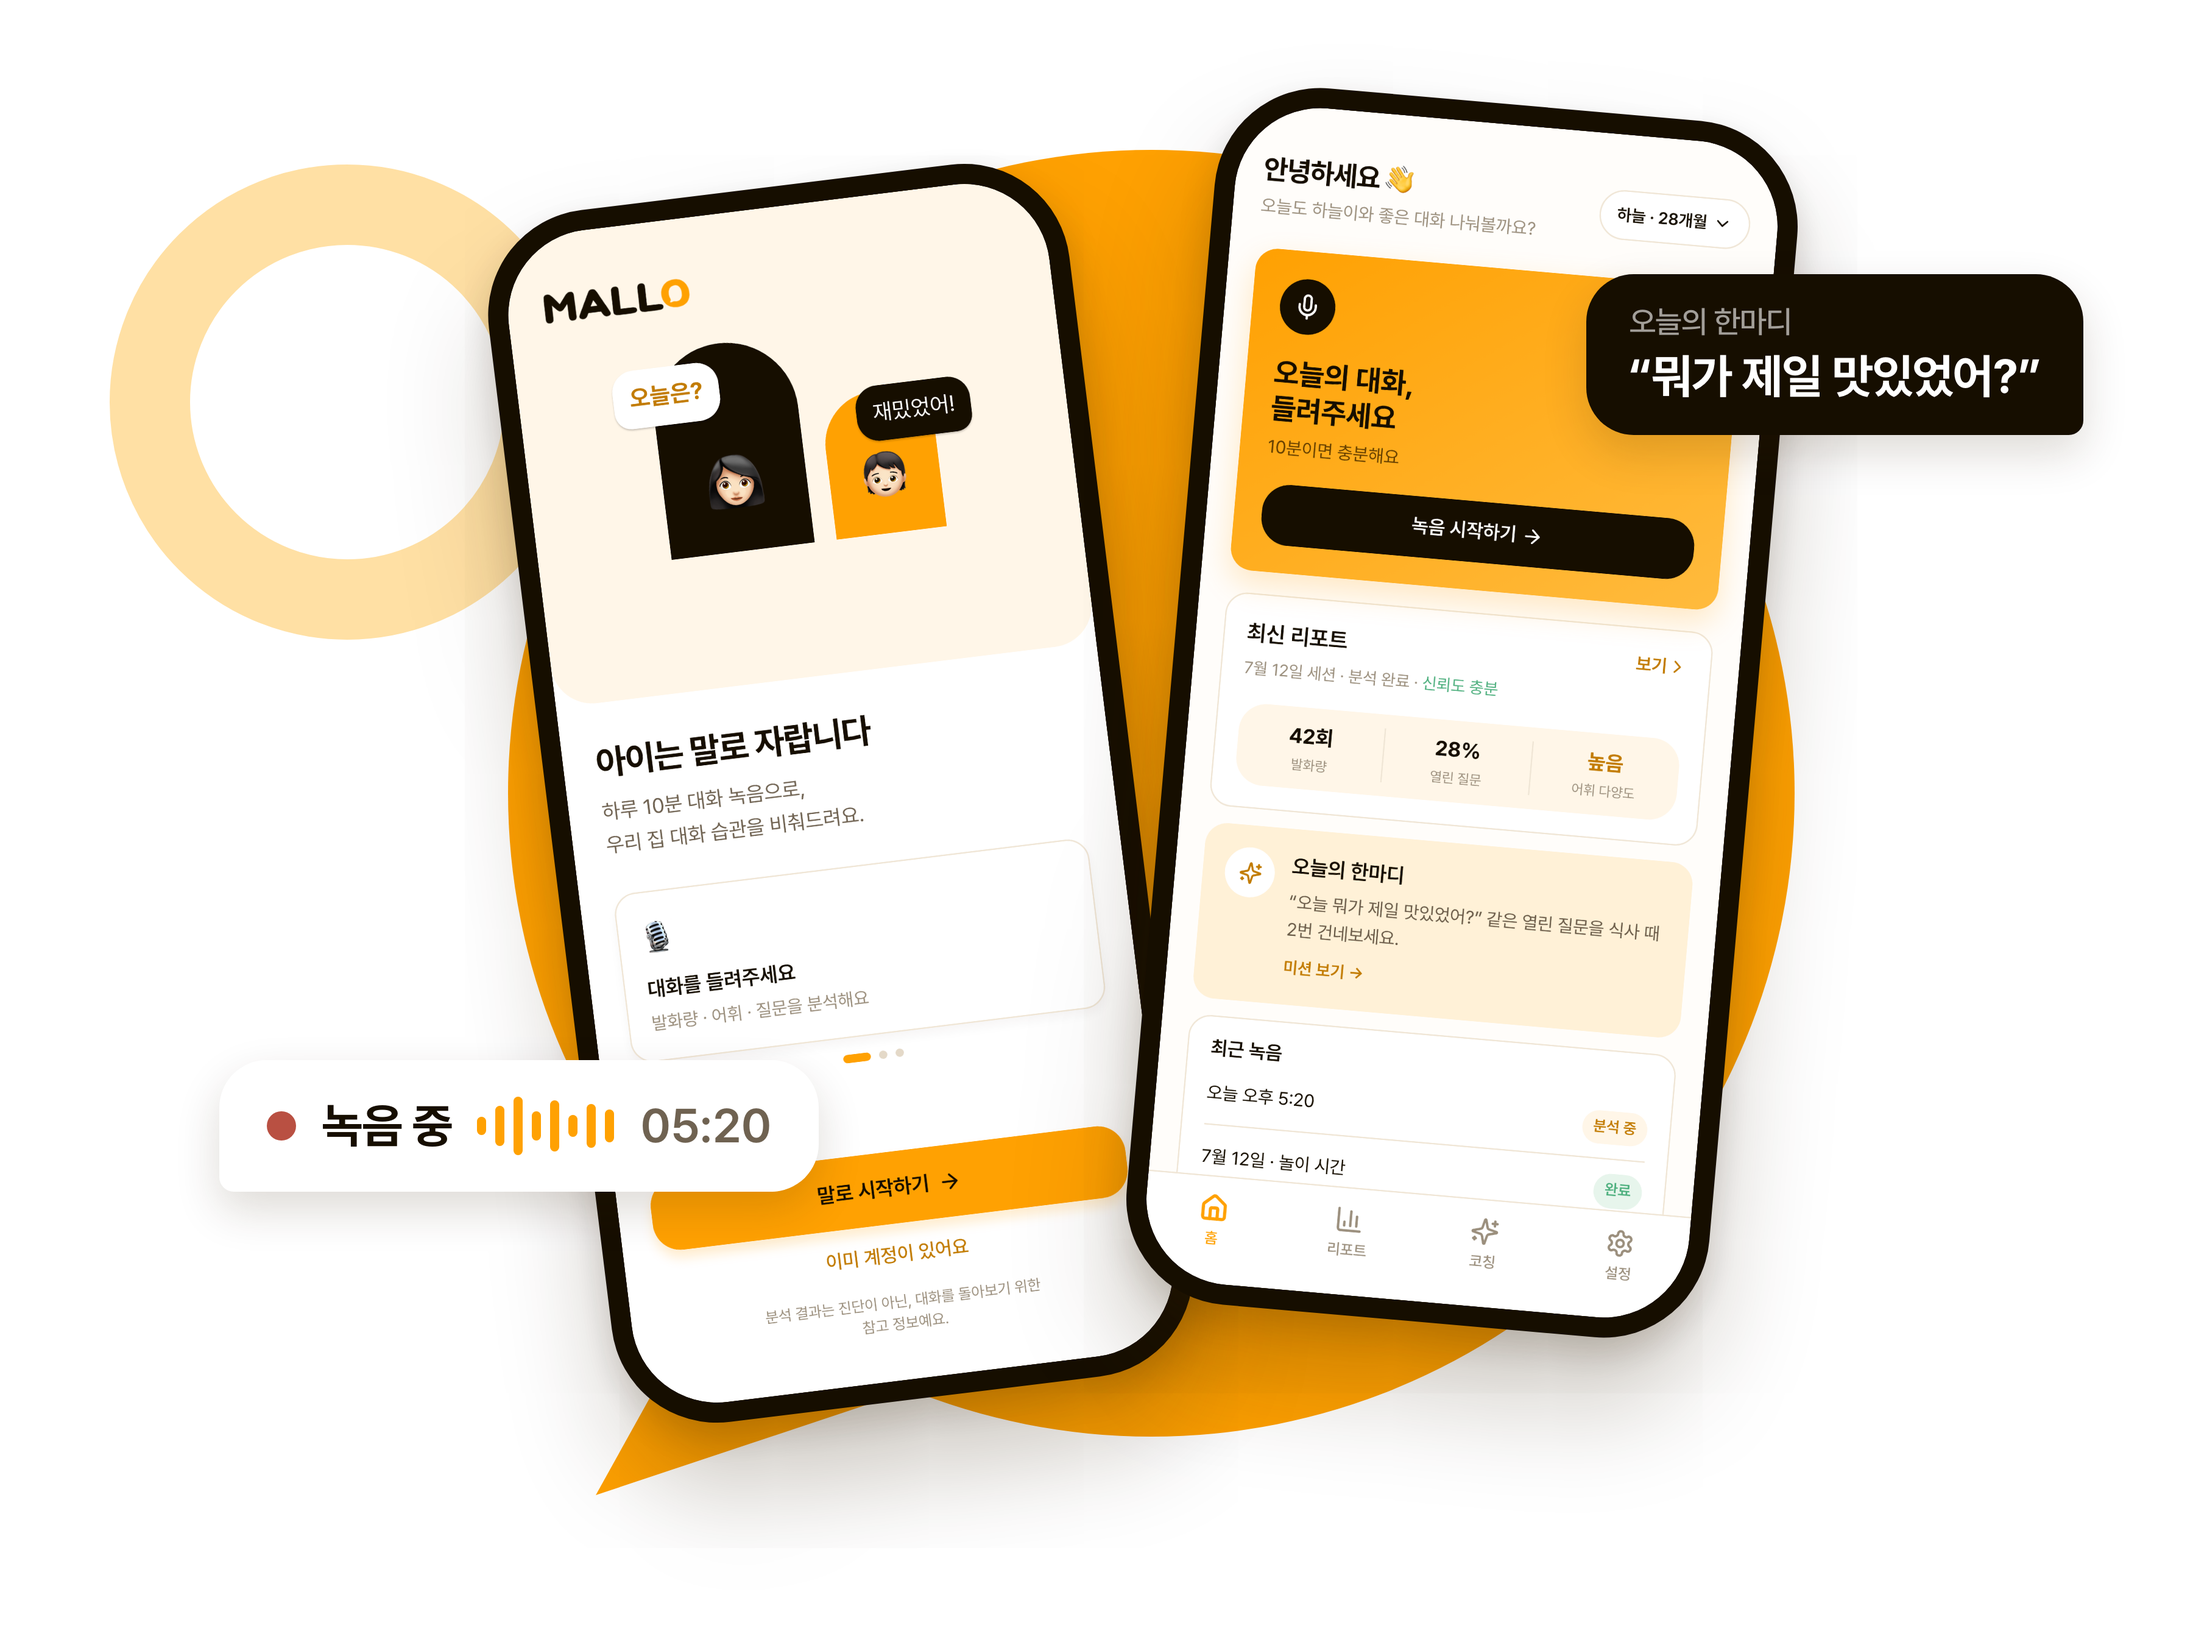
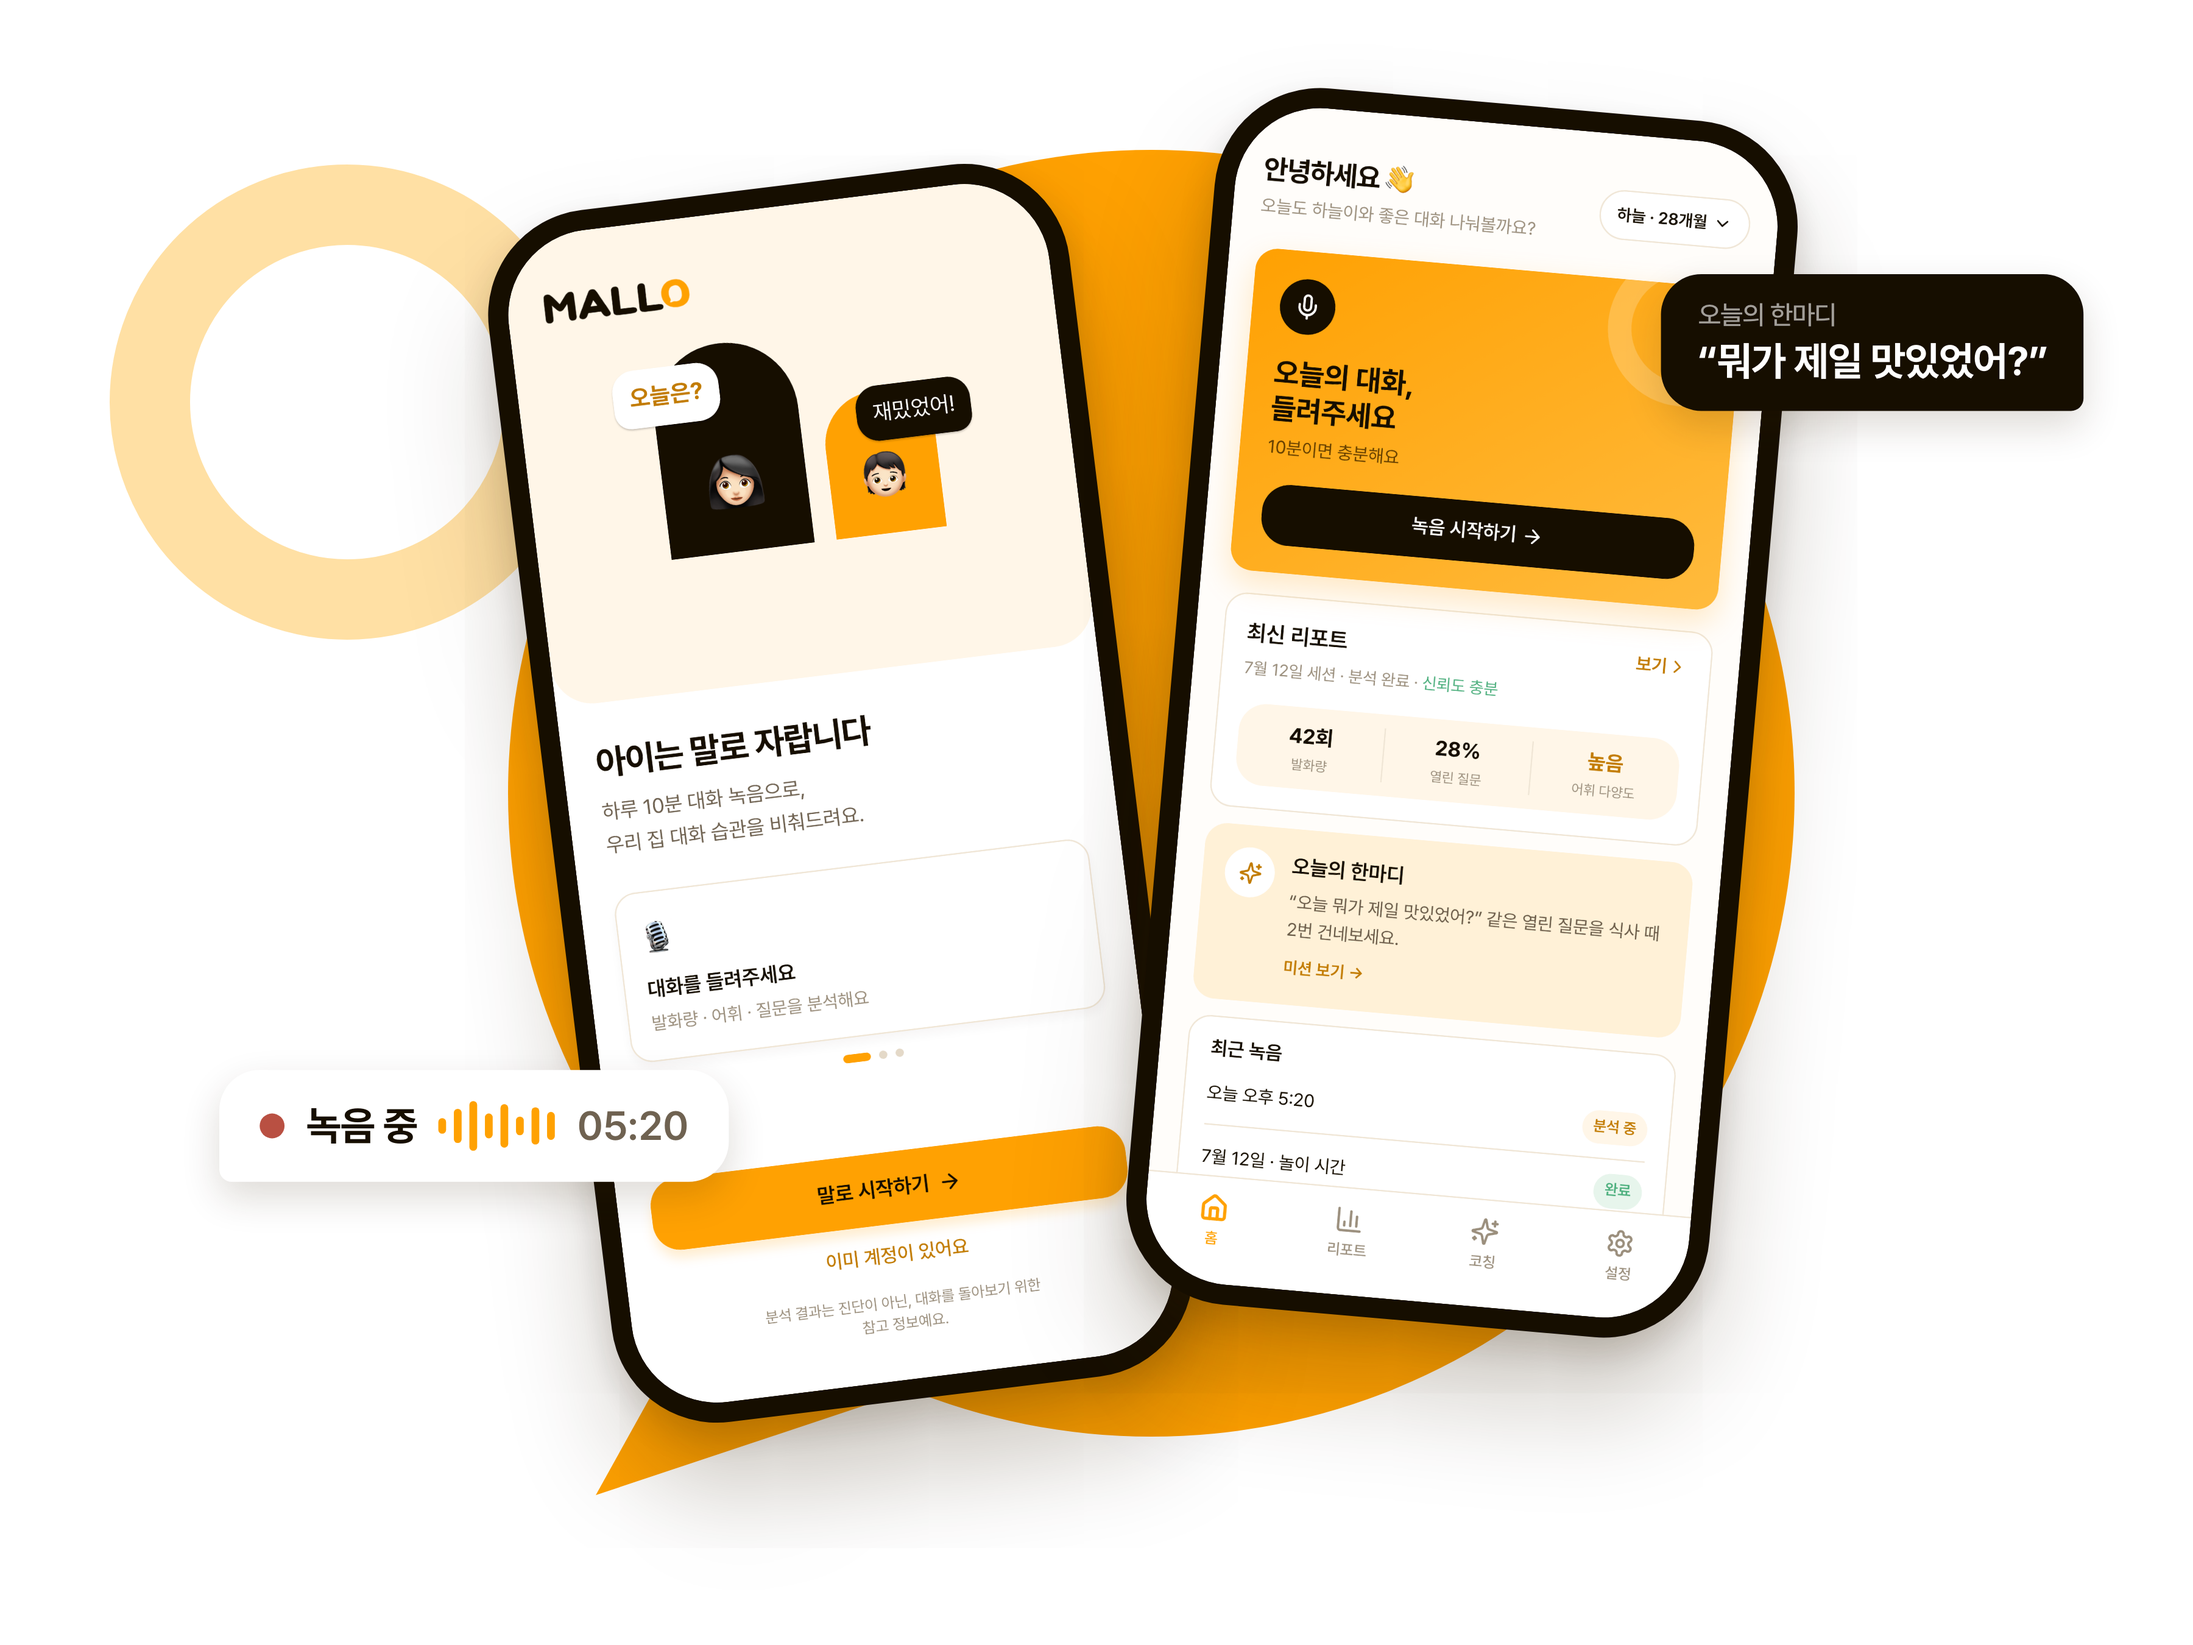
대표이미지의 녹음 중·오늘의 한마디 칩을 85%로 축소

Changed region(s): [[0.7156, 0.1556, 0.9644, 0.28], [0.1244, 0.6222, 0.3733, 0.7467]]

diff --git a/docs/poster/key-visual.html b/docs/poster/key-visual.html
@@ -87,6 +87,9 @@
       }
       .chip--light { background: #fff; border-bottom-left-radius: 8px; }
       .chip--dark { background: var(--color-surface-dark); color: #fff; border-bottom-right-radius: 8px; }
+      /* 칩은 휴대폰 화면보다 튀지 않게 85%로 줄인다. 기준점은 바깥쪽 가장자리 */
+      .chip--light { transform: scale(0.85); transform-origin: left center; }
+      .chip--dark { transform: scale(0.85); transform-origin: right top; }
       .chip--rec { display: flex; align-items: center; gap: 14px; padding: 20px 26px; }
       .rec-dot { width: 16px; height: 16px; border-radius: 50%; background: var(--color-danger); }
       .wave { display: flex; align-items: center; gap: 5px; height: 32px; }
